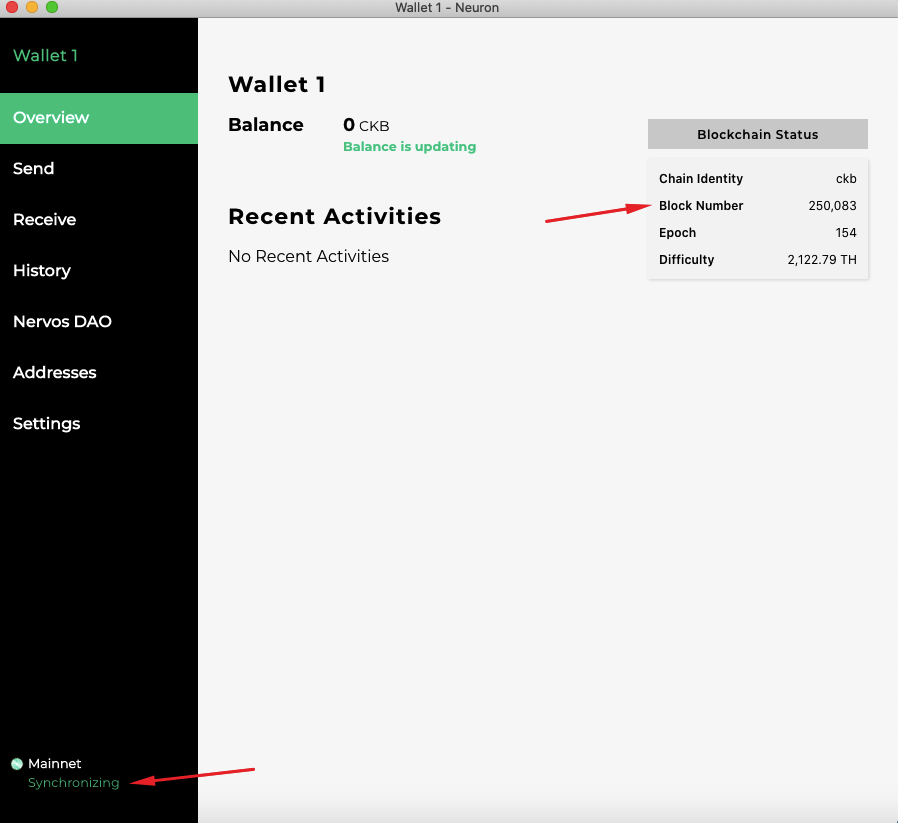
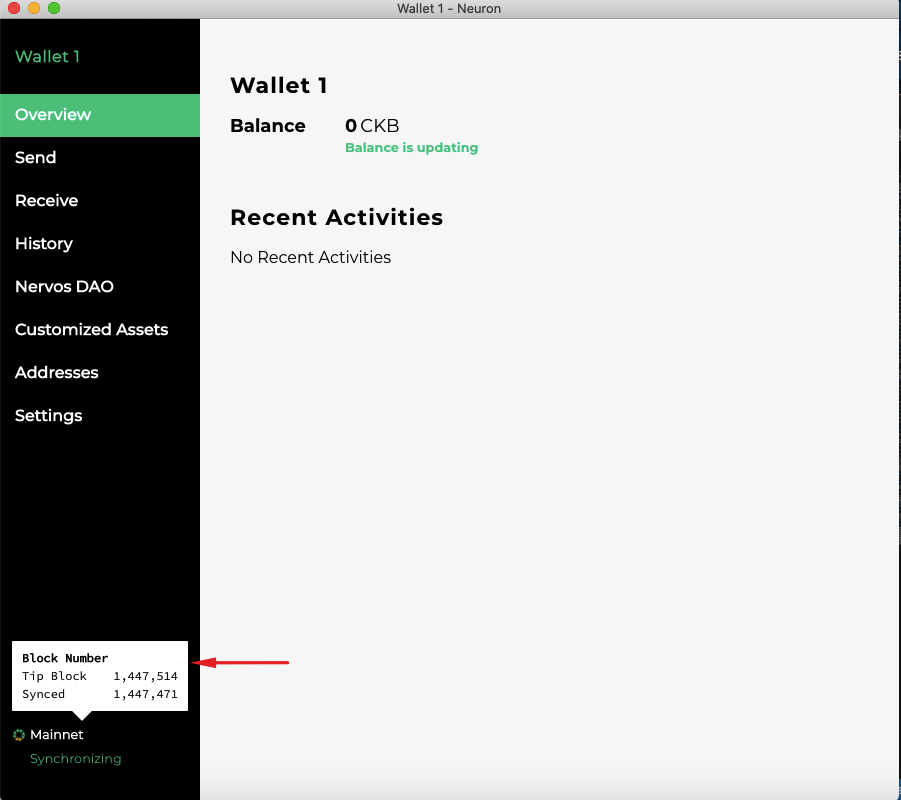
docs: update neuron

diff --git a/docs/references/neuron-wallet-guide.md b/docs/references/neuron-wallet-guide.md
@@ -3,7 +3,11 @@ id: neuron-wallet-guide
 title: Neuron Wallet Guide
 ---
 
-Following mainnet launch, if you hold a keystore file or a seed phrase generated from the Neuron Key Manager, you can use the Neuron wallet to receive your tokens or create a new wallet to store your tokens and deposit in the Nervos DAO. With the v0.26.0 release of Neuron Wallet, a CKB node is now included in the wallet and configured to connect to the CKB Mainnet. After installation, as you open the Neuron Wallet, the bundled Mainnet node will run.
+Following mainnet launch, if you hold a keystore file or a seed phrase generated from the Neuron Key Manager, you can use the Neuron wallet to receive your tokens or create a new wallet to store your tokens and deposit in the Nervos DAO. 
+
+With the v0.26.0 release of Neuron Wallet, a CKB node is now included in the wallet and configured to connect to the CKB Mainnet. After installation, as you open the Neuron Wallet, the bundled Mainnet node will run.
+
+You can also run a CKB node yourself and launch Neuron wallet, then Neuron will NOT start the bundled node, but connects to your node instead.
 
 Please follow these instructions which are explained in detail below：
 
@@ -17,14 +21,14 @@ Bonus guides:
 - Withdraw from Nervos DAO
 - How to transfer CKBytes from the Neuron Wallet to other wallets and exchanges
 
-If you run into issues when following this guide, please join the [official Nervos Telegram](https://t.me/NervosNetwork) channel for support.
+If you run into issues when following this guide, please join the [Support](https://discord.gg/n6tx7uC) channel for support.
 
 **IMPORTANT: The Nervos Team will NEVER ask for your private key, keystore file, mnemonic seed phase or wallet password. You should NEVER share this information with anyone, doing so may result in loss of all your tokens.**
 * * *
 
 ## 1. Download and install the Neuron Wallet
 
-Download the latest release version of the Neuron Wallet from the [Neuron Wallet releases page on Github](https://github.com/nervosnetwork/neuron/releases) and install it. **Please make sure that the version is v0.26.0 or later.** Import your keystore file or seed phrase that was previously generated by the Neuron Key Manager (full guide below), wait for the synchronization to end, and then you should see that the wallet’s balance has changed.
+Download the latest release version of the Neuron Wallet from the [Neuron Wallet releases page on Github](https://github.com/nervosnetwork/neuron/releases) and install it. **Please make sure that the version is v0.29.0 or later.** Import your keystore file or seed phrase that was previously generated by the Neuron Key Manager (full guide below), wait for the synchronization to end, and then you should see that the wallet’s balance has changed.
 
 ## 2. Wait for the synchronization to end
 You can cross-check the Block Number with CKB-Explorer's Latest Block to make sure the synchronization to end.
@@ -57,7 +61,7 @@ To access your tokens, you will need to import your private keys into the **Neur
 
 <img src="../assets/neuron-wallet-guide/keystorefile.png" width = "600"/>
 
-<img src="../assets/neuron-wallet-guide/overview.png" width = "600"/>
+<img src="../assets/neuron-wallet-guide/synchronization.png" width = "600"/>
 
 - To import the mnemonic seed phrase, choose “Import Wallet Seed”, fill in your password and wait for synchronization to end. **The password does not need to match the original password from the Neuron Key Manager.**
 
@@ -65,15 +69,17 @@ To access your tokens, you will need to import your private keys into the **Neur
 
 <img src="../assets/neuron-wallet-guide/importseed2.png" width = "600"/>
 
-<img src="../assets/neuron-wallet-guide/overview.png" width = "600"/>
+<img src="../assets/neuron-wallet-guide/synchronization.png" width = "600"/>
 
 Congratulations, once the Neuron wallet is synced, you will have full access to your tokens! You can send  and receive CKBytes and deposit into the Nervos DAO.
 
 ## How to deposit your Nervos CKByte tokens into Nervos DAO
 
-The [economic model](https://github.com/nervosnetwork/rfcs/blob/master/rfcs/0015-ckb-cryptoeconomics/0015-ckb-cryptoeconomics.md) of Nervos CKB is designed to allow token holders to lock tokens in the Nervos DAO to mitigate the inflationary effect of the secondary issuance. In this case, the inflationary effect of secondary issuance is expected to be nominal, equivalent to holding tokens with a hard cap. The Nervos DAO will be available at the launch of mainnet (please refer to our RFC for details). **Please make sure your balance is greater than 102 CKB.**
+The [economic model](https://github.com/nervosnetwork/rfcs/blob/master/rfcs/0015-ckb-cryptoeconomics/0015-ckb-cryptoeconomics.md) of Nervos CKB is designed to allow token holders to lock tokens in the Nervos DAO to mitigate the inflationary effect of the secondary issuance. In this case, the inflationary effect of secondary issuance is expected to be nominal, equivalent to holding tokens with a hard cap. Please refer to [Nervos DAO Explained](https://medium.com/nervosnetwork/nervos-dao-explained-95e33898b1c) for more details). 
 
-- Open the Neuron Wallet while running the CKB Mainnet Node (v0.25.1 or later), select “Nervos DAO” and “deposit”.
+**Please make sure your balance is greater than 102 CKB.**
+
+- Open the Neuron Wallet (the latest version), select “Nervos DAO” and “Deposit”.
 
 <img src="../assets/neuron-wallet-guide/deposit.png" width = "600"/>
 
@@ -89,10 +95,6 @@ The [economic model](https://github.com/nervosnetwork/rfcs/blob/master/rfcs/0015
 
 <img src="../assets/neuron-wallet-guide/withdraw2.png" width = "600"/>
 
-When you click the left button, will display the `Current Compensation Period`.
-
-<img src="../assets/neuron-wallet-guide/withdraw3.png"/>
-
 ## How to transfer CKBytes from the Neuron Wallet to other wallets and exchanges
 
 > **Please read the disclaimer below before transacting on mainnet**
@@ -105,17 +107,13 @@ You should have the third party wallet/exchange destination address. **Please ma
 
 ## Troubleshooting
 
-### Neuron displays 0 balance
+### Sync failed. XXX /Sync is slow XXX
 
-- Make sure that ckb node v0.25.1 or later is running
-- Visit [https://explorer.nervos.org](https://explorer.nervos.org) to check your balance, if it displays non-zero, then you should clear Neuron cache.
-  - go to Neuron data folder, on Mac it's ~/Library/Application\ Support/Neuron/cells, On Windows it's C:\Users\xxx\AppData\Roaming\Neuron\cells
-  - delete files inside that folder
-  - restart Neuron
+1. Quit and restart app several times.
 
-### "Capacity is not enough" when transfer CKBytes
+2. If step1 can't resolve, please run a CKB mainnet node and make sure the version is v0.31.0 or later instead of running the Neuron bundled node. 
 
-- Wait until your last transaction has been confirmed by chain, then try again.
+Note: Neuron requires [VC++ redistributable](https://support.microsoft.com/en-us/help/2977003/the-latest-supported-visual-c-downloads) on Windows to work properly. Please try to install it to solve this problem.
 
 ## Important
 

diff --git a/docs/tooling/neuron.md b/docs/tooling/neuron.md
@@ -17,15 +17,15 @@ If you prefer to run your own node (maybe for development purposes), you still c
 
 In this section we will give an overall introduction to Neuron Wallet. Tutorials are included in the [Getting Started](/getting-started/introduction) and [Neuron Wallet Guide](/references/neuron-wallet-guide) sections.
 
-Please [download](https://github.com/nervosnetwork/neuron/releases) and install the latest Neuron Wallet version, click `Create a New Wallet`, and you will then see the main interface. There are seven tabs: **Overview, Send, Receive, History, Nervos DAO, Addresses and Settings**.
+Please [download](https://github.com/nervosnetwork/neuron/releases) and install the latest Neuron Wallet version, click `Create a New Wallet`, and you will then see the main interface. There are eight tabs: **Overview, Send, Receive, History, Nervos DAO, Addresses,Settings and Customized Assets(experimental)**.
 
 <img src="../assets/neuron-wallet/overview.png" width = "600"/>
 
 ### Overview
 
-`Overview`  displays the 「Wallet name」「Balance」「Recent Activities」「Blockchain Status」
+`Overview`  displays the 「Wallet name」「Balance」「Recent Activities」「Blockchain Number」
 
-You can cross-check the `Block Number` in `Blockchain Status` with `Latest Block`  in [CKB-Explorer](https://explorer.nervos.org/) to make sure the node is synced.
+You can cross-check the `Tip Block` in `Blockchain Status` with `Latest Block`  in [CKB-Explorer](https://explorer.nervos.org/) to make sure the node is synced.
 
 <img src="../assets/neuron-wallet/overview.png" width = "600"/>
 
@@ -51,13 +51,13 @@ Here you can search for previous transactions. Right click on the list and you c
 
 Information about the economic function of the Nervos DAO is [here](https://medium.com/nervosnetwork/nervos-dao-explained-95e33898b1c), with this functionality you can deposit and withdraw CKBytes through Neuron Wallet. 
 
-<img src="../assets/neuron-wallet/nervosdao.png" width = "600"/>
+<img src="../assets/neuron-wallet/deposit.png" width = "600"/>
 
 ### Addresses
 
 Neuron Wallet is HD（Hierarchical Determinstic）wallet defined by BIP32, BIP39,BIP-43 and BIP-44. It is developed to derive 20 Receiving addresses and 10 change addresses from a “seed phrase”. It’s recommended to refer to [Mastering Bitcoin-Chapter 4- Wallets](https://www.oreilly.com/library/view/mastering-bitcoin/9781491902639/ch04.html) for more details.
 
-<img src="../assets/neuron-wallet/address.png" width = "600"/>
+<img src="../assets/neuron-wallet/addresses.png" width = "600"/>
 
 ### Settings
 
